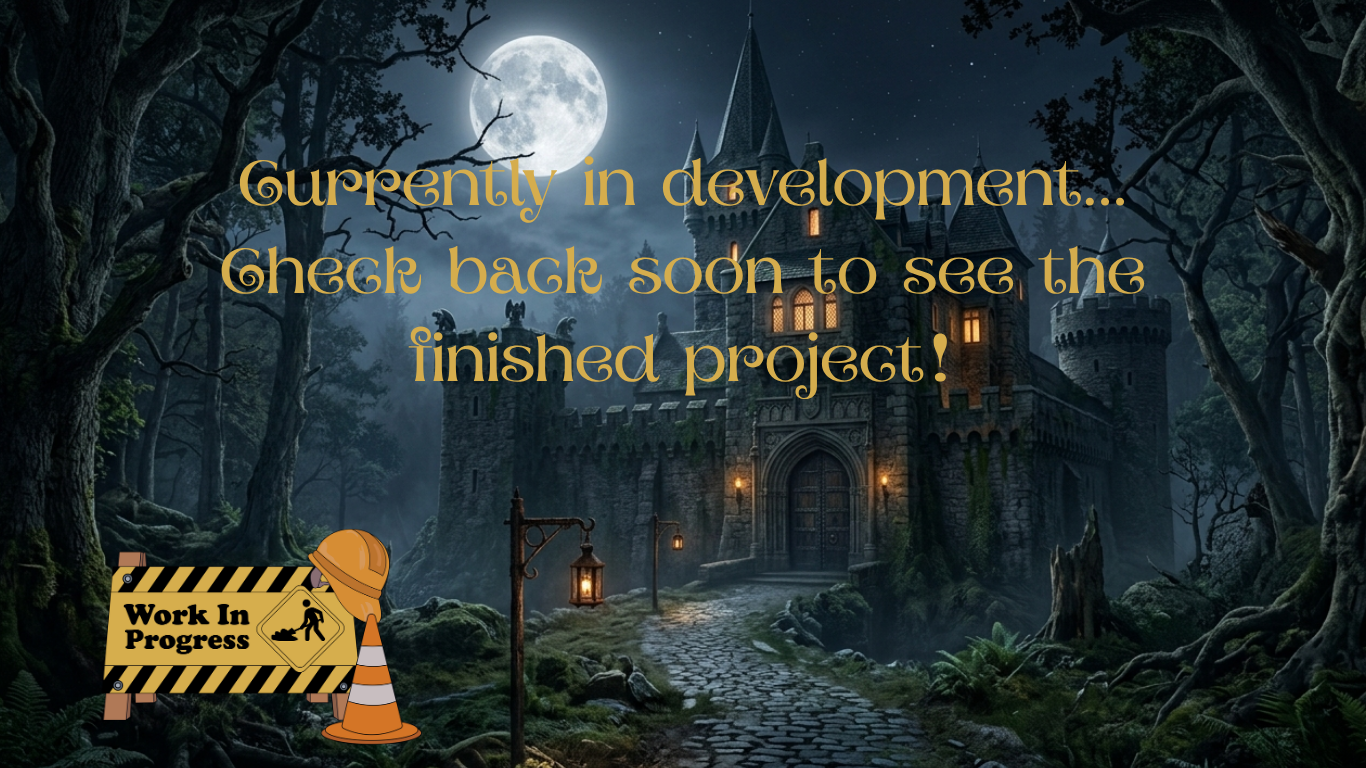
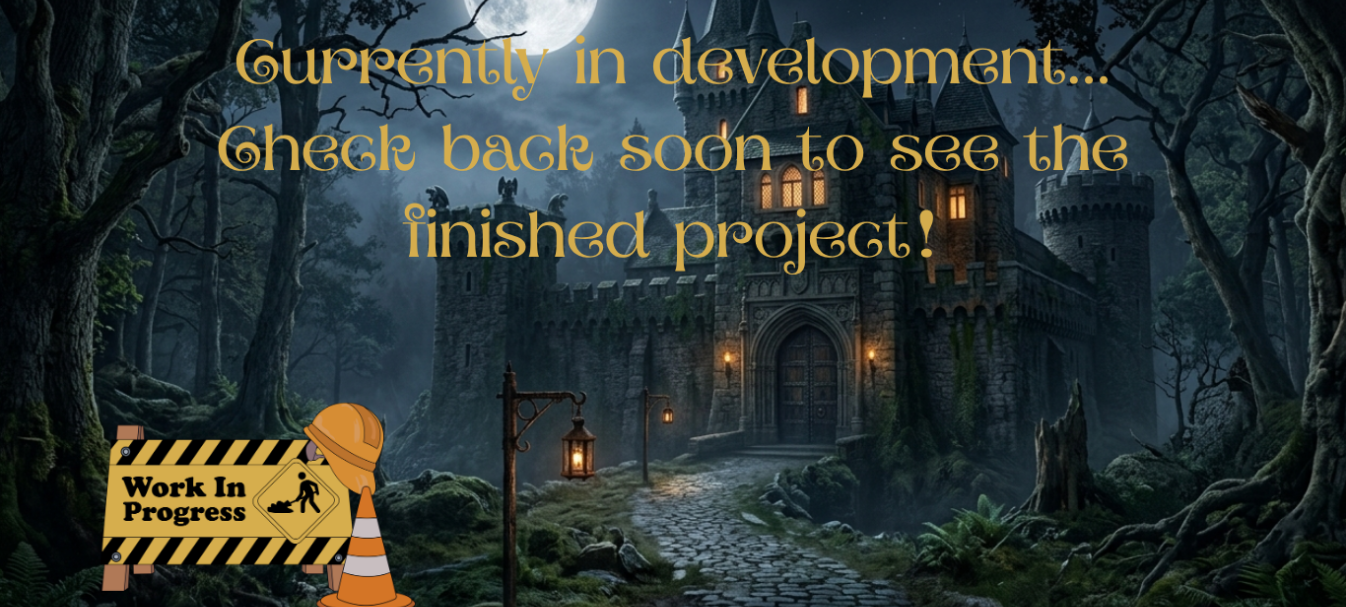
added expeditionTrailblazer url

diff --git a/PersonalFrontend/src/app/project/project.component.html b/PersonalFrontend/src/app/project/project.component.html
@@ -17,7 +17,12 @@
       <section class="tv-interface" #tvInterface>
         <h2>Projects</h2>
         <article class="tv-item project-selected">
-          <a class="project-summary" href="/" target="_blank" rel="noreferrer">
+          <a
+            class="project-summary"
+            href="https://elisa-puorto.vercel.app/assets/HarryPotter_Escape.png"
+            target="_blank"
+            rel="noreferrer"
+          >
             <div class="project-summary-title">
               <div class="tv-indent"><p>[/&gt;</p></div>
               <div class="title">
@@ -44,9 +49,7 @@
                   Elisa Puorto
                 </p>
                 <p class="tech">Tech: frontend, nodejs</p>
-                <p class="url">
-                  https://elisa-puorto.vercel.app/assets/HarryPotter_Escape.png
-                </p>
+                <p class="url">/</p>
               </div>
             </div>
             <div class="project-summary-link">
@@ -55,7 +58,11 @@
           >
         </article>
         <article class="tv-item">
-          <a class="project-summary" href="/" target="_blank" rel="noreferrer"
+          <a
+            class="project-summary"
+            href="https://elisa-puorto.vercel.app/assets/ExpeditionTraiblazer.PNG"
+            target="_blank"
+            rel="noreferrer"
             ><div class="project-summary-title">
               <div class="tv-indent"><p>[/&gt;</p></div>
               <div class="title">
